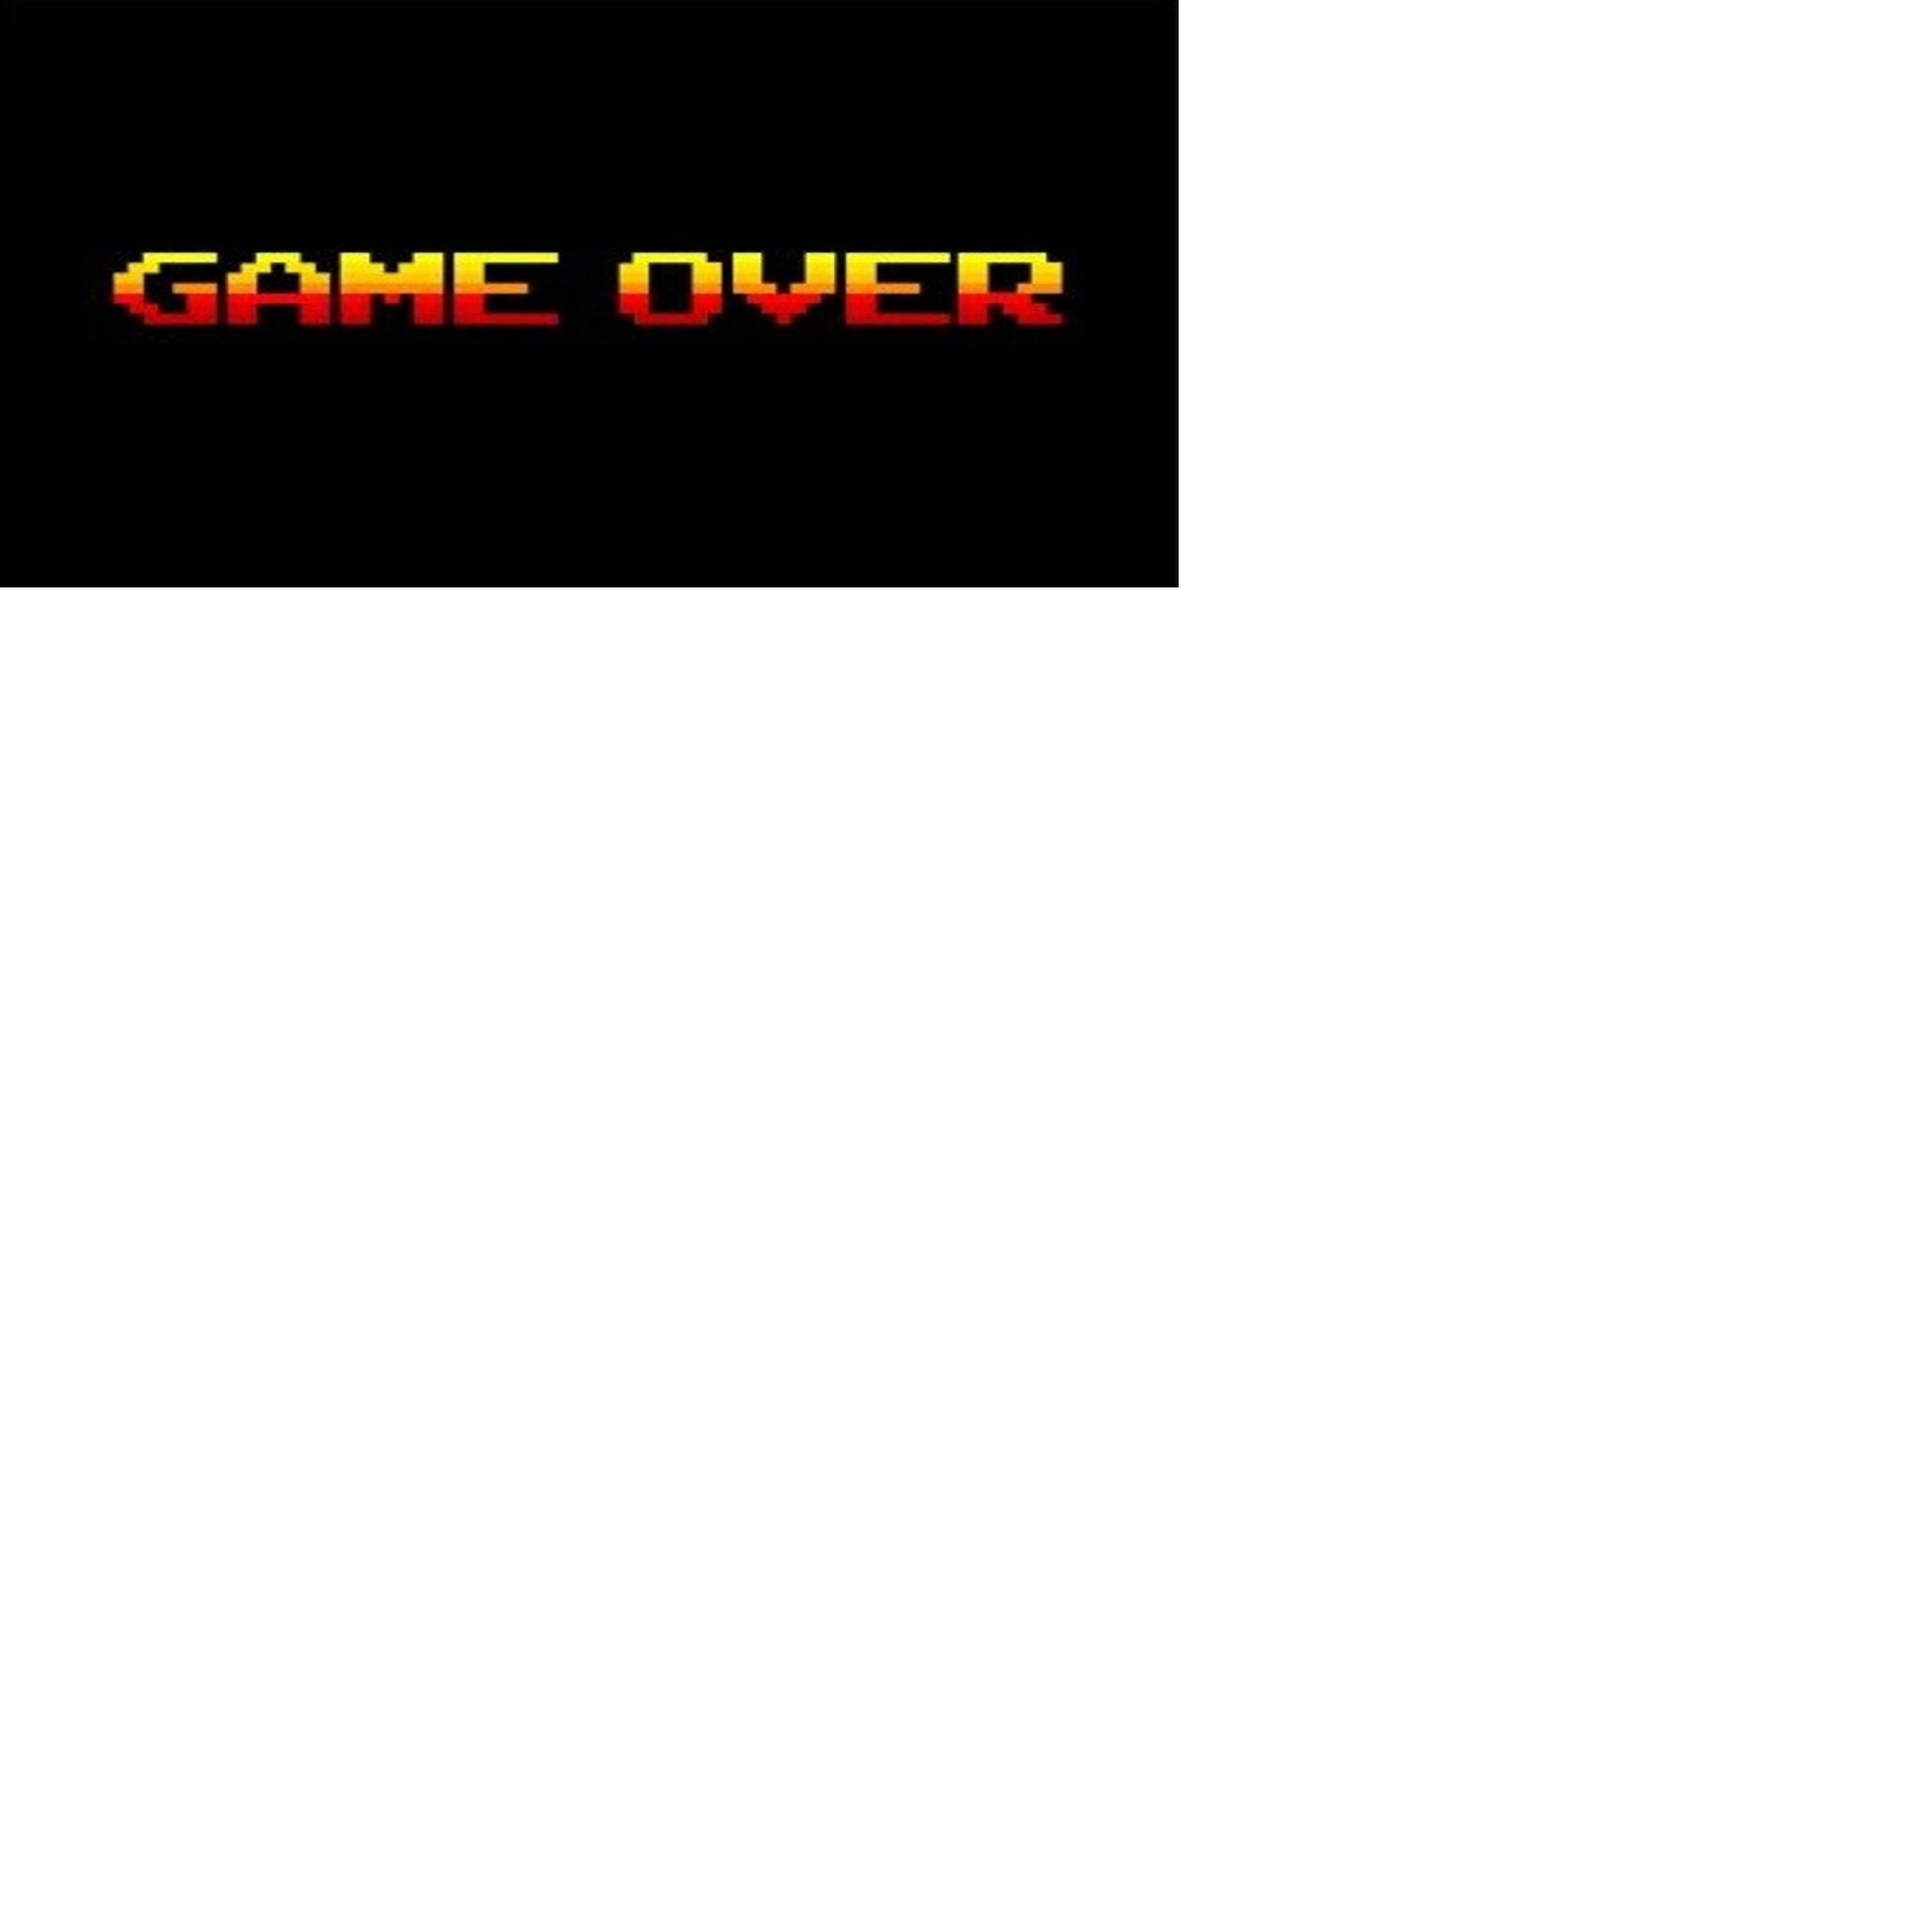
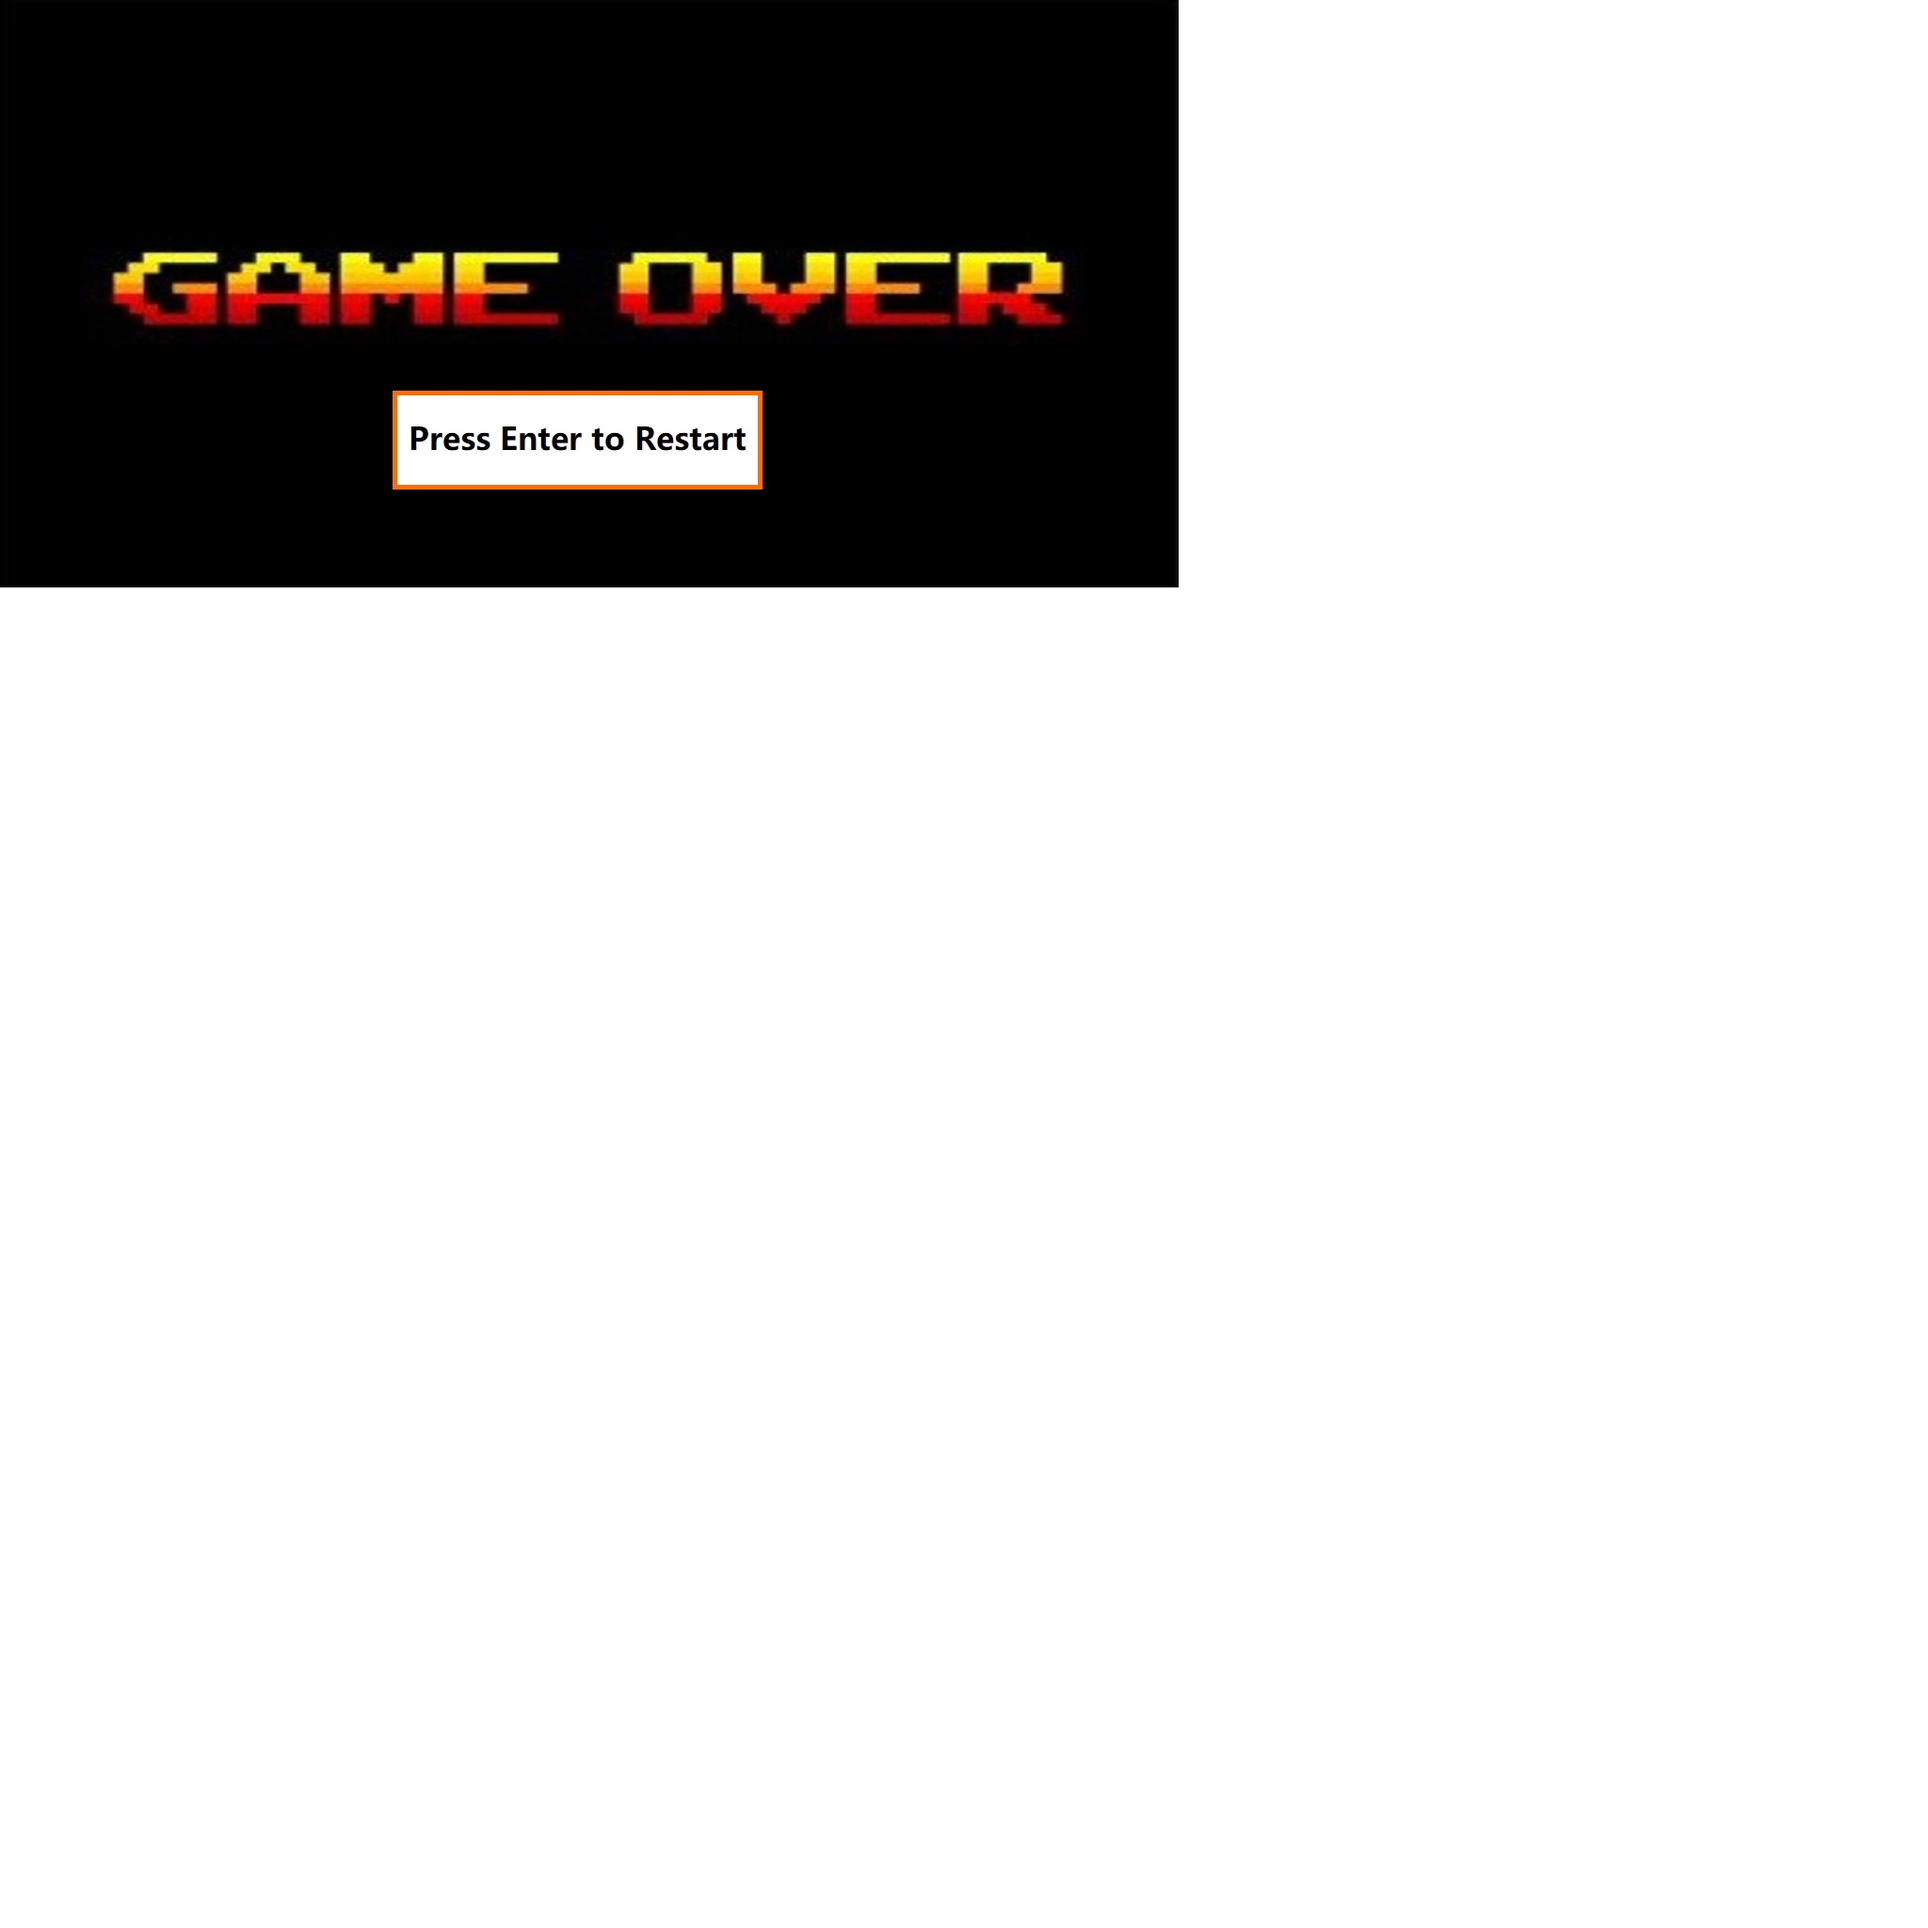
left UI

Changed region(s): [[0.1875, 0.1875, 0.4062, 0.2812]]

diff --git a/GamePractical/Background.cpp b/GamePractical/Background.cpp
@@ -32,6 +32,7 @@ void Background::Init() {
 	score = 0;
 	frontScore = 0;
 	backScore = 0;
+	timer = 0;
 
 
 	D3DXCreateSprite(GameGraphic::getInstance()->getDevice(), &sprite);
@@ -106,22 +107,38 @@ void Background::Update() {
 		sound->Update();
 	}
 
-	if (Player::getInstance()->getBasketballQty() == 0 && GameInput::getInstance()->KeyboardKeyPressed(DIK_RETURN))
+	if (Player::getInstance()->getBasketballQty() == 0 && score >= 5)
 	{
-		if (score >= 5)
+		int maxTimer = 200;
+		if (timer <= maxTimer)
 		{
+			timer++;
+		}
+
+		else
+		{
+			timer = 0;
 			sound->stop();
 			soundPlay = false;
 			GameStateManager::getInstance()->changeGameState(2);
 		}
+	}
 
-		else if (score < 5)
+	else if (Player::getInstance()->getBasketballQty() == 0 && score < 5)
+	{
+		int maxTimer = 200;
+		if (timer <= maxTimer)
 		{
+			timer++;
+		}
+
+		else
+		{
+			timer = 0;
 			sound->stop();
 			soundPlay = false;
 			GameStateManager::getInstance()->changeGameState(3);
 		}
-		
 	}
 
 	if (frontScore == 1 && run == false && backScore == 1 && run == false)

diff --git a/GamePractical/Player.cpp b/GamePractical/Player.cpp
@@ -74,7 +74,7 @@ void Player::Init()
 	characterSize.x = 178;
 	characterSize.y = 132;
 
-	Player::getInstance()->setBasketballQty(15);
+	Player::getInstance()->setBasketballQty(1);
 
 
 	D3DXCreateSprite(GameGraphic::getInstance()->getDevice(), &sprite);

diff --git a/GamePractical/LoseScene.cpp b/GamePractical/LoseScene.cpp
@@ -51,6 +51,7 @@ void LoseScene::Update() {
 		soundPlay = false;
 		GameStateManager::getInstance()->changeGameState(1);
 	}
+
 }
 
 void LoseScene::FixedUpdate() {

diff --git a/GamePractical/Background.h b/GamePractical/Background.h
@@ -52,6 +52,7 @@ private:
     float speed;
     float animationTimer;
 
+    int timer;
     int score;
     int frontScore, backScore;
 
